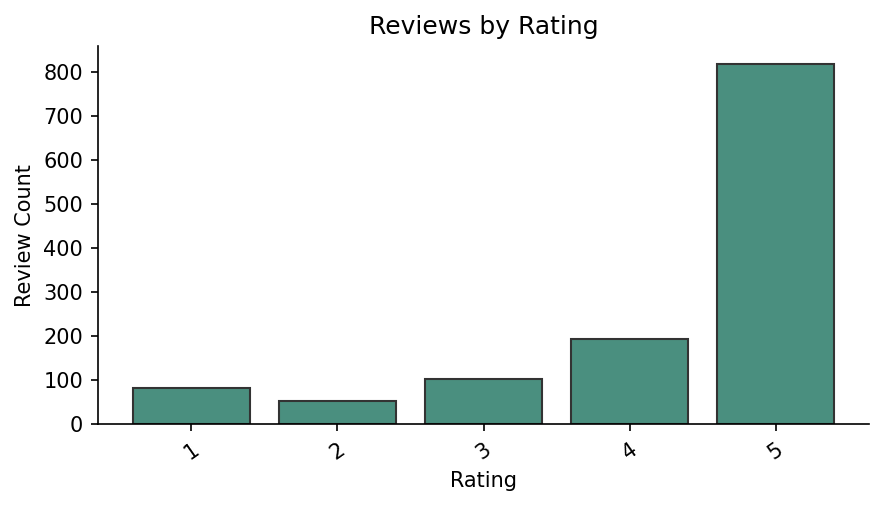
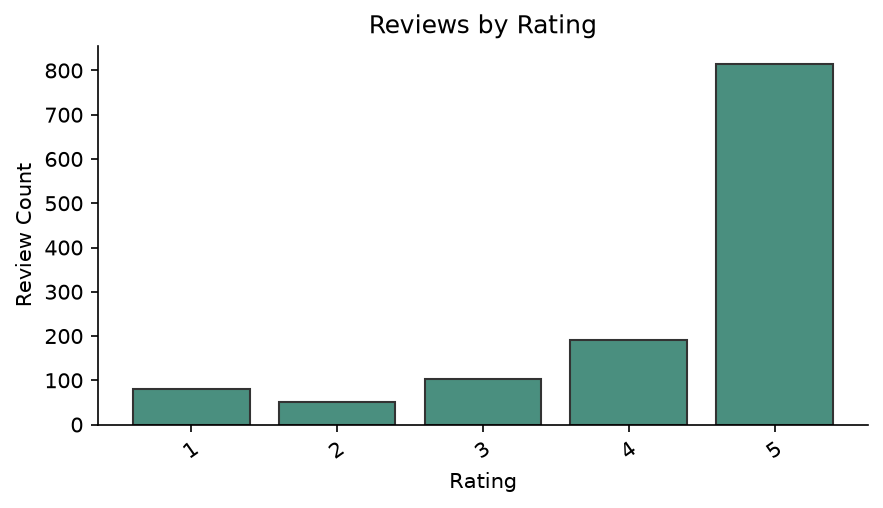
sql statement fix

diff --git a/glowbase/templates/products.html b/glowbase/templates/products.html
@@ -62,19 +62,13 @@
 
     <section class="query-display-box">
         <h2>SQL Statement Used</h2>
-        <p class="query-display-note">This is the MariaDB query built from the current filters.</p>
+        <p>This is the MariaDB query built from the current filters. It can be copied and tested directly in MariaDB.</p>
 
-        <div class="query-display-grid">
-            <div class="query-display-card">
-                <h3>SQL Statement</h3>
-                <pre>{{ sql_statement_used }}</pre>
-            </div>
-
-            <div class="query-display-card">
-                <h3>Parameters</h3>
-                <pre>{{ sql_parameters_used | tojson(indent=2) }}</pre>
-            </div>
+        <div class="query-display-card">
+            <h3>Pasteable MariaDB SQL Statement</h3>
+            <pre>{{ sql_statement_used }}</pre>
         </div>
+
     </section>
 
     <p class="result-count">Showing up to 100 products</p>

diff --git a/glowbase/templates/chemical_products.html b/glowbase/templates/chemical_products.html
@@ -24,7 +24,7 @@
 <section class="query-display-box">
     <h2>Nested Query Used</h2>
     <p class="query-display-note">
-        MongoDB first finds products containing this chemical. The product IDs are then used inside the MariaDB SQL query to retrieve product details.
+    MongoDB first finds reviews containing the selected chemical. The matching product IDs are then inserted into a MariaDB SQL query that can be copied and tested directly.
     </p>
 
     <div class="query-display-grid">
@@ -34,7 +34,7 @@
         </div>
 
         <div class="query-display-card">
-            <h3>Step 2: MariaDB SQL Query</h3>
+            <h3>Step 2: Pasteable MariaDB SQL Query</h3>
             <pre>{{ chemical_products_sql }}</pre>
         </div>
 

diff --git a/glowbase/app.py b/glowbase/app.py
@@ -28,7 +28,21 @@ def fix_mongo_id(review):
         review["_id"] = str(review["_id"])
     return review
 
+def make_pasteable_sql(query, params):
+    pasteable_query = dedent(query).strip()
 
+    for param in params:
+        if param is None:
+            value = "NULL"
+        elif isinstance(param, (int, float)):
+            value = str(param)
+        else:
+            escaped = str(param).replace("\\", "\\\\").replace("'", "''")
+            value = f"'{escaped}'"
+
+        pasteable_query = pasteable_query.replace("%s", value, 1)
+
+    return pasteable_query
 
 def get_brand_id(cursor, brand_name):
     cursor.execute(
@@ -385,8 +399,7 @@ def products():
 
     query += " GROUP BY p.product_id ORDER BY p.product_name LIMIT 100"
 
-    sql_statement_used = dedent(query).strip()
-    sql_parameters_used = params[:]
+    sql_statement_used = make_pasteable_sql(query, params)
 
     cursor.execute(query, params)
     product_list = cursor.fetchall()
@@ -444,7 +457,7 @@ def products():
         selected_price=price,
         selected_chemical=chemical,
         sql_statement_used=sql_statement_used,
-        sql_parameters_used=sql_parameters_used
+        
     )
 
 
@@ -1852,7 +1865,7 @@ ORDER BY p.product_name
         chemical=chemical_name,
         products=products,
         mongo_query_used=mongo_query_used,
-        chemical_products_sql=dedent(chemical_products_sql).strip(),
+        chemical_products_sql=make_pasteable_sql(chemical_products_sql, product_ids),
         product_ids=product_ids
     )
 